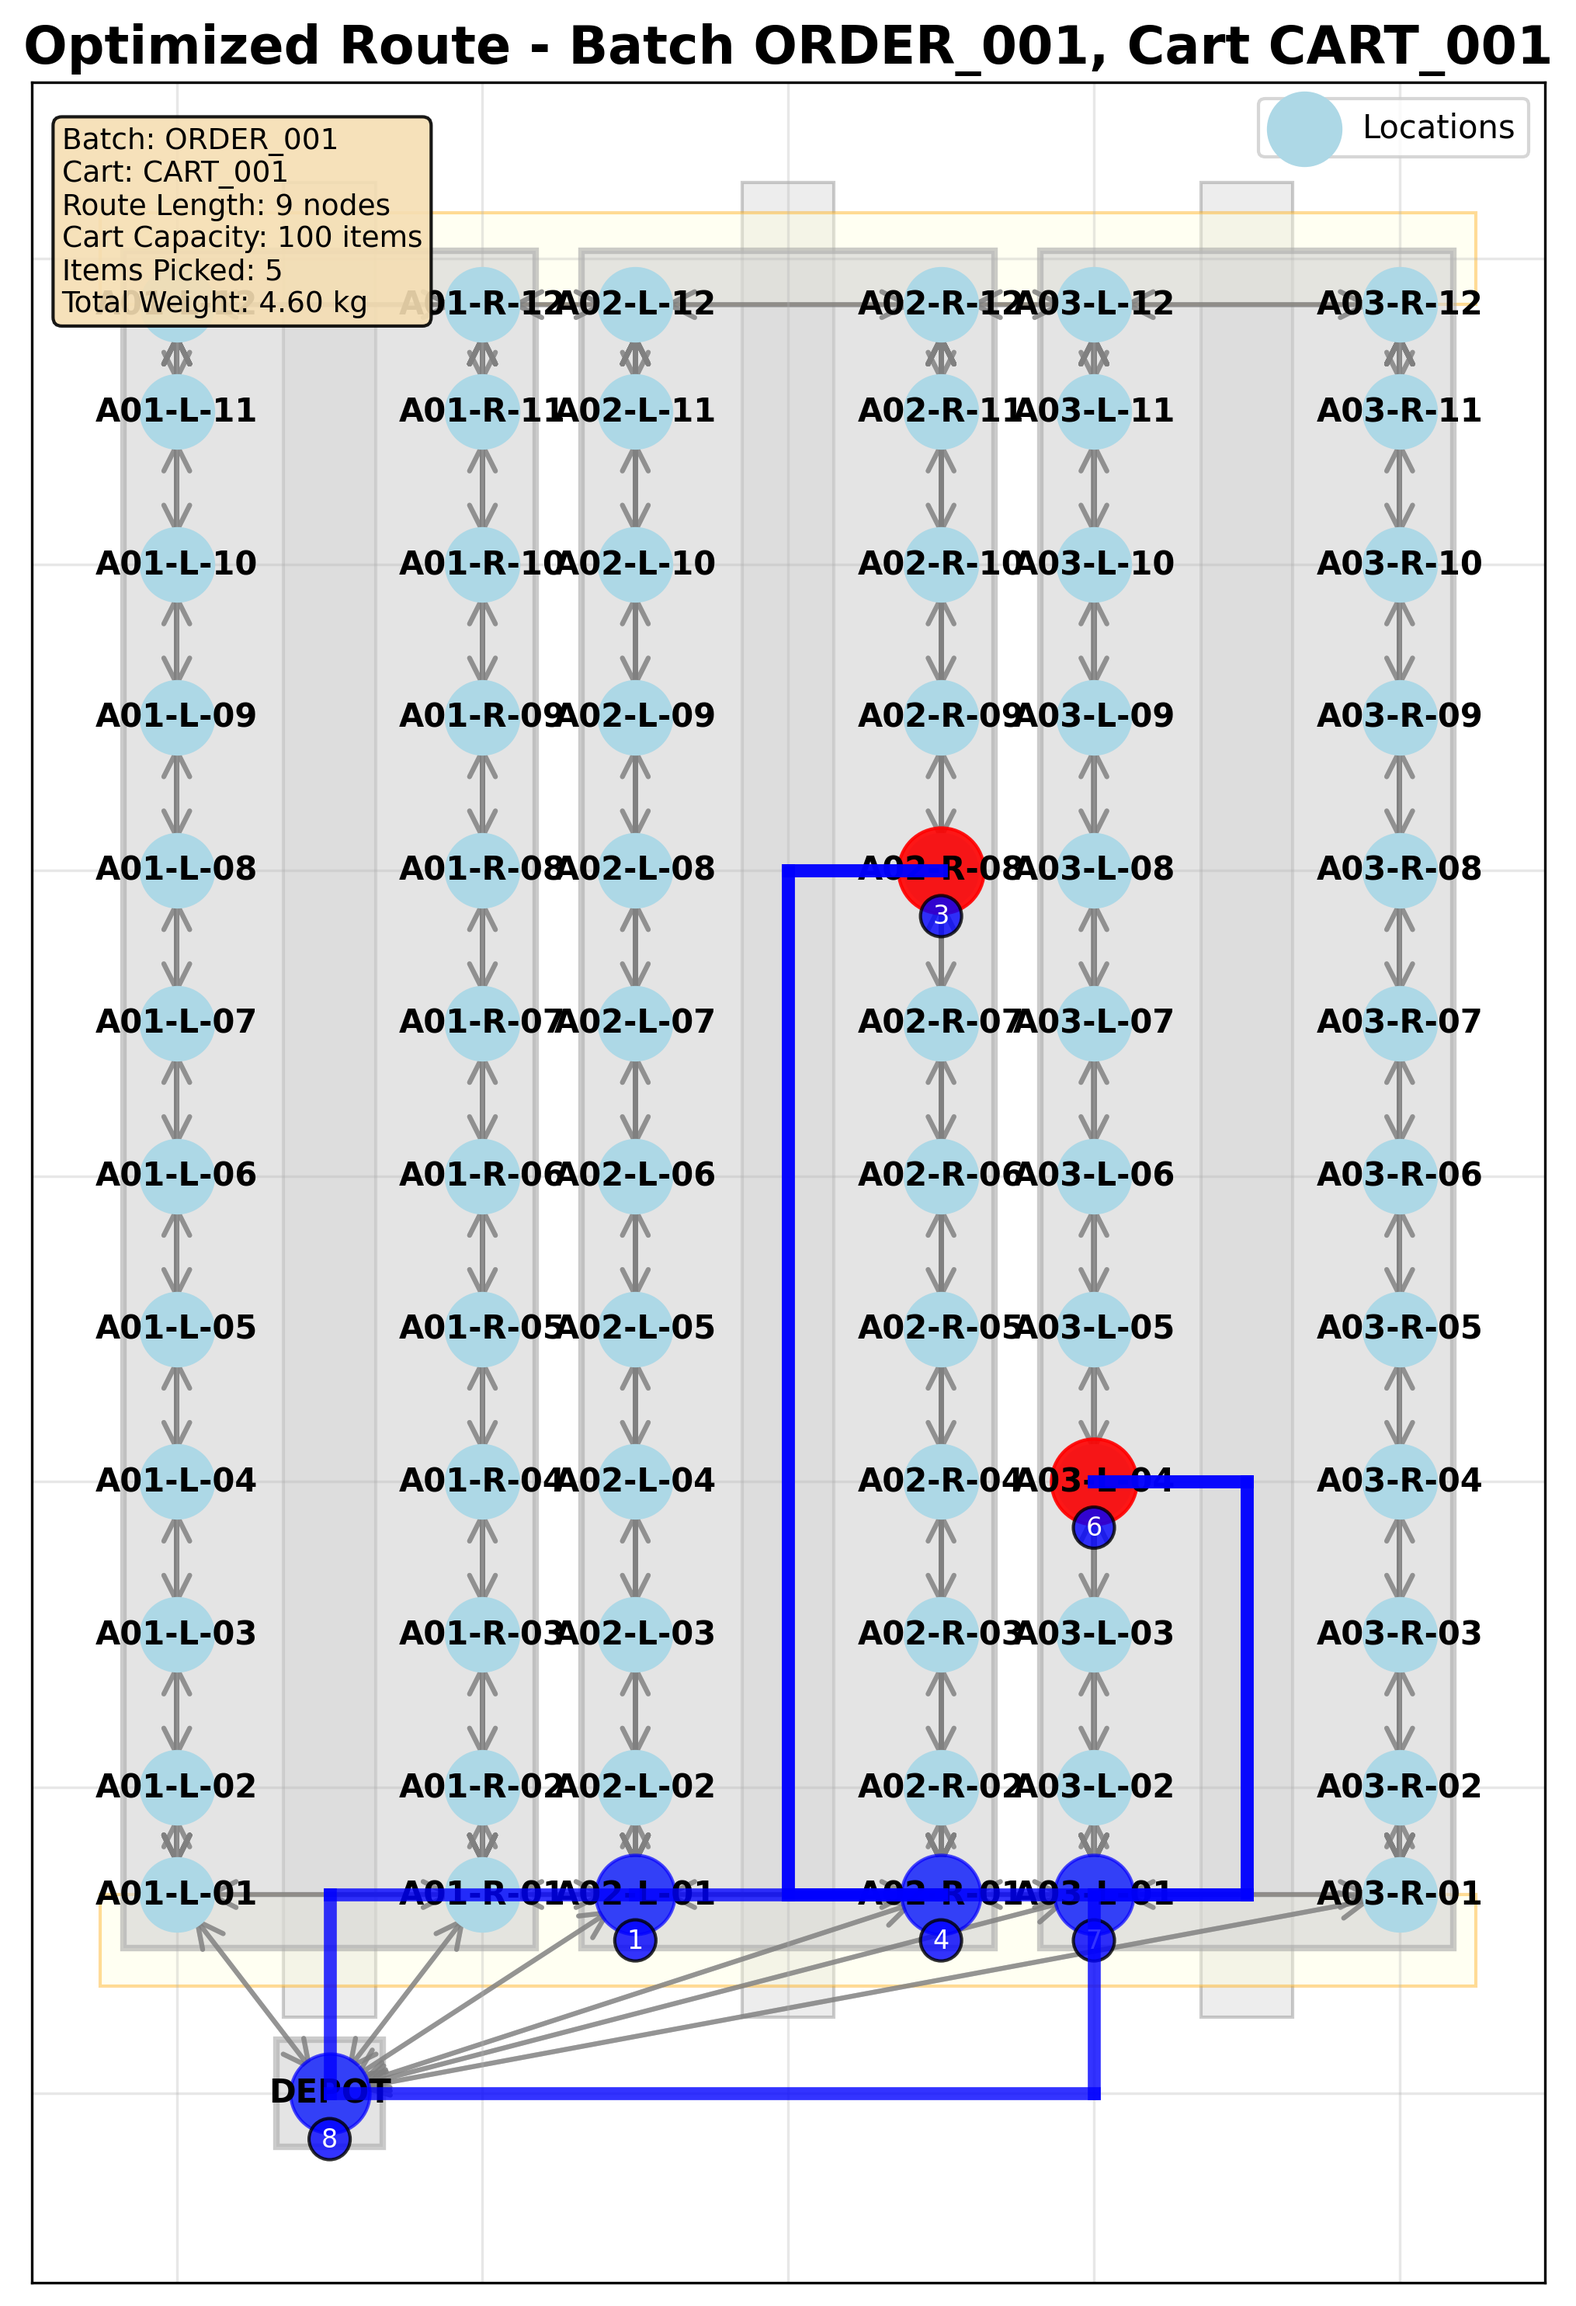
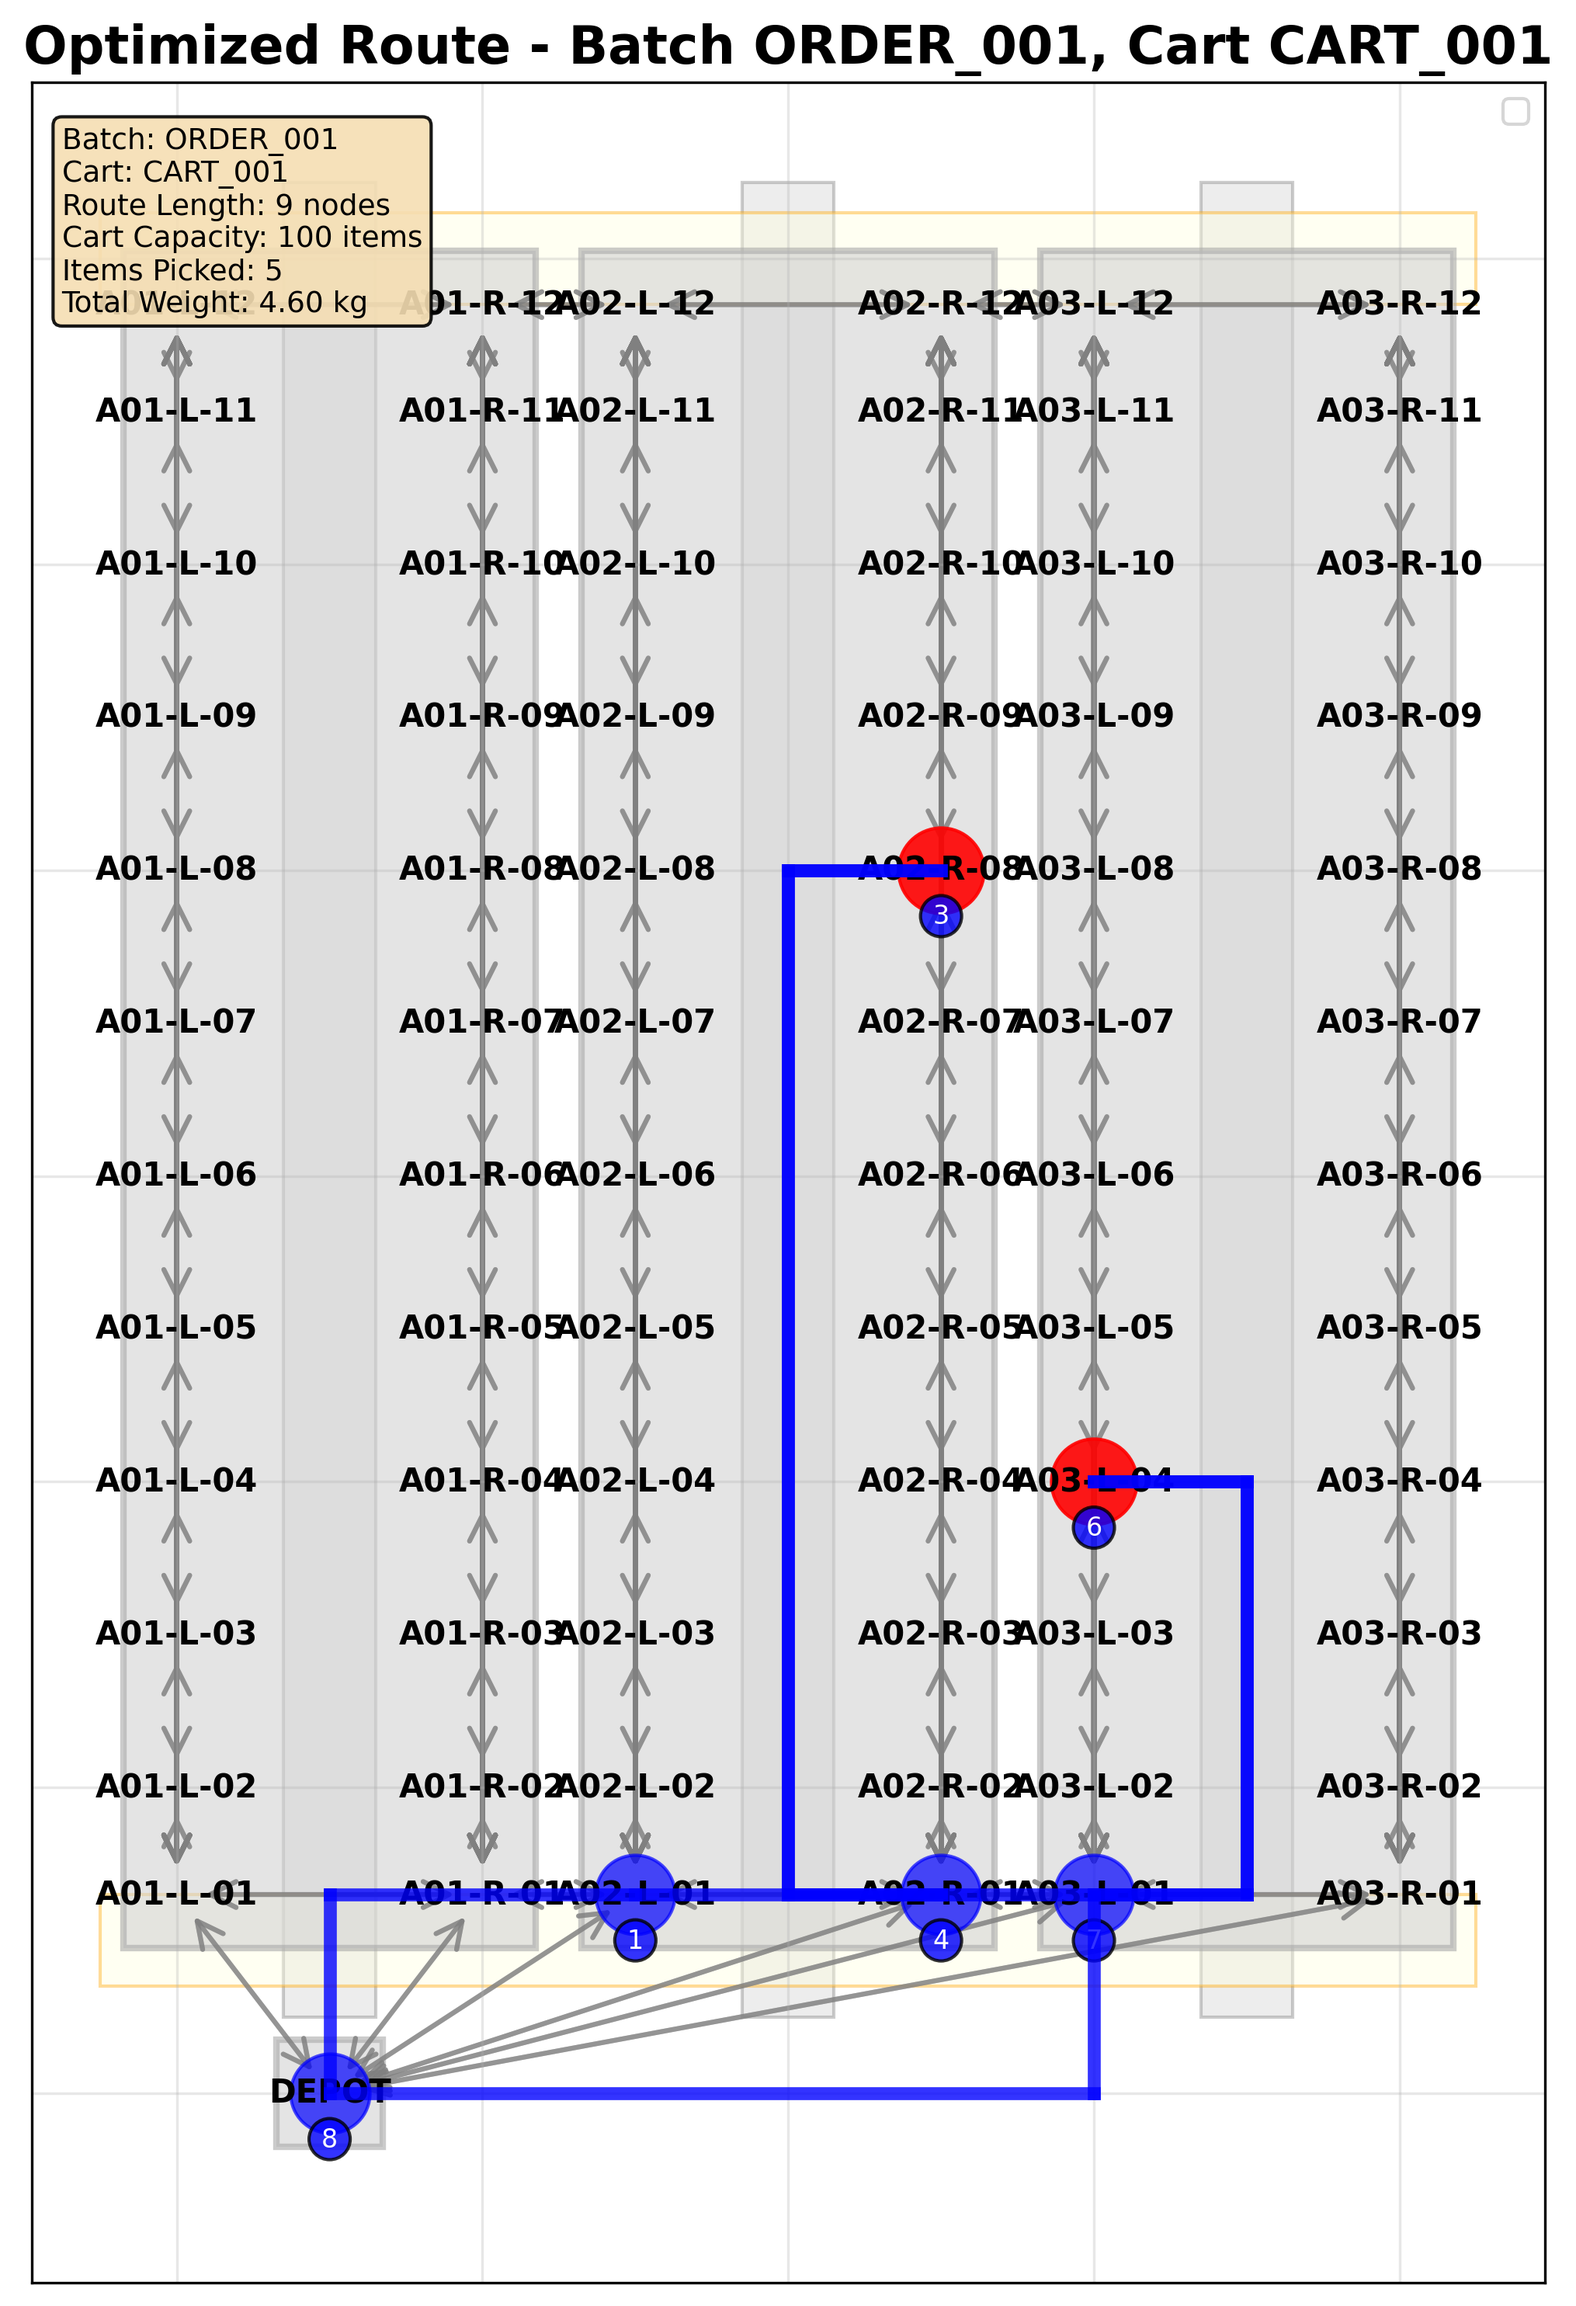
demo20251004

diff --git a/visualization/route_visualizer.py b/visualization/route_visualizer.py
@@ -360,15 +360,16 @@ class RouteVisualizer:
             ax=self.ax
         )
         
-        nx.draw_networkx_nodes(
-            G, pos,
-            nodelist=location_nodes,
-            node_color='lightblue',
-            node_size=500,
-            node_shape='o',
-            label='Locations',
-            ax=self.ax
-        )
+        # Don't draw location nodes as circles - just show labels
+        # nx.draw_networkx_nodes(
+        #     G, pos,
+        #     nodelist=location_nodes,
+        #     node_color='lightblue',
+        #     node_size=500,
+        #     node_shape='o',
+        #     label='Locations',
+        #     ax=self.ax
+        # )
         
         # Draw edges
         # Separate bidirectional and unidirectional edges
